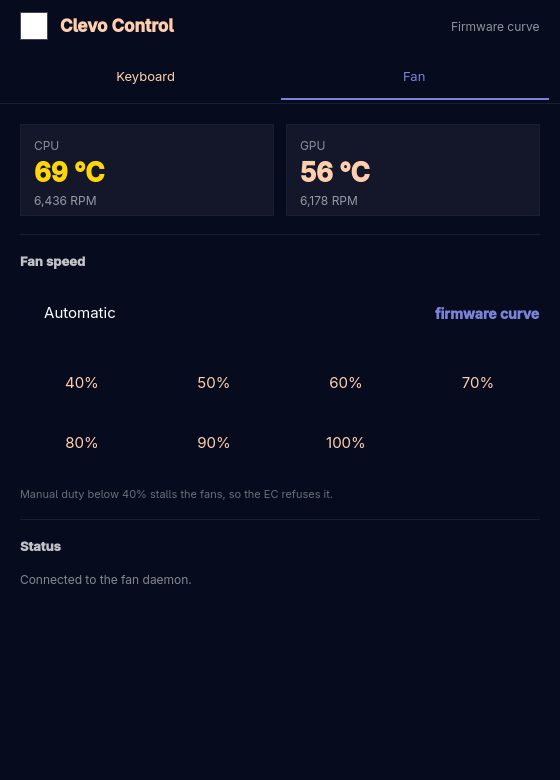
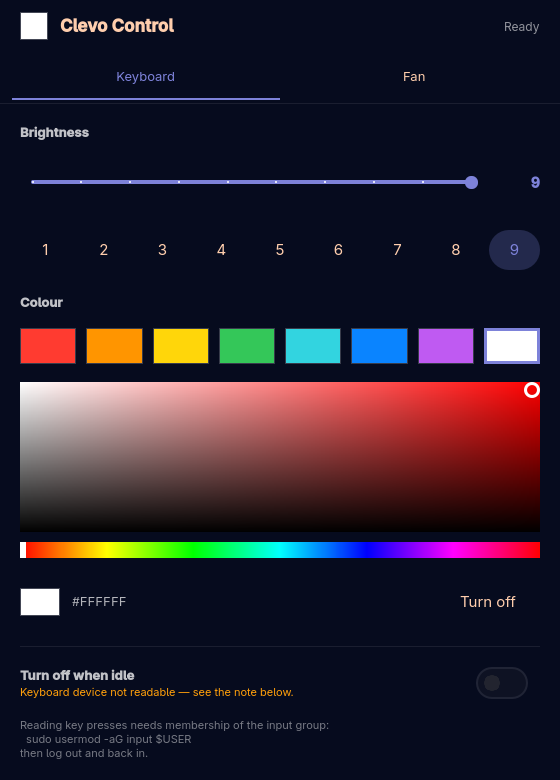
Turn the backlight off after the machine goes idle

diff --git a/src/Main.qml b/src/Main.qml
@@ -242,6 +242,89 @@ ApplicationWindow {
                     }
                 }
 
+                // ---- Idle auto-off ----
+                Rectangle {
+                    Layout.fillWidth: true
+                    height: 1
+                    color: Qt.rgba(1, 1, 1, 0.08)
+                }
+
+                RowLayout {
+                    Layout.fillWidth: true
+                    spacing: 12
+
+                    ColumnLayout {
+                        spacing: 2
+                        Layout.fillWidth: true
+                        Label {
+                            text: qsTr("Turn off when idle")
+                            font.pixelSize: 13
+                            font.bold: true
+                            color: Qt.rgba(1, 1, 1, 0.75)
+                        }
+                        Label {
+                            text: idle.deviceAvailable
+                                  ? qsTr("The light comes back the moment you type.")
+                                  : qsTr("Keyboard device not readable — see the note below.")
+                            font.pixelSize: 11
+                            color: idle.deviceAvailable ? Qt.rgba(1, 1, 1, 0.4) : "#FF9F0A"
+                            wrapMode: Text.WordWrap
+                            Layout.fillWidth: true
+                        }
+                    }
+
+                    Switch {
+                        checked: idle.enabled
+                        enabled: idle.deviceAvailable
+                        onToggled: idle.enabled = checked
+                    }
+                }
+
+                RowLayout {
+                    Layout.fillWidth: true
+                    spacing: 12
+                    visible: idle.enabled
+                    Label {
+                        text: qsTr("After")
+                        font.pixelSize: 12
+                        color: Qt.rgba(1, 1, 1, 0.6)
+                    }
+                    Slider {
+                        id: idleSlider
+                        Layout.fillWidth: true
+                        from: 10
+                        to: 300
+                        stepSize: 10
+                        snapMode: Slider.SnapAlways
+                        value: idle.timeoutSeconds
+                        onMoved: idle.timeoutSeconds = Math.round(value)
+                    }
+                    Label {
+                        text: qsTr("%n s", "", idle.timeoutSeconds)
+                        font.pixelSize: 12
+                        color: theme.accent
+                        Layout.preferredWidth: 52
+                        horizontalAlignment: Text.AlignRight
+                    }
+                }
+
+                Label {
+                    Layout.fillWidth: true
+                    visible: idle.enabled && idle.dimmed
+                    text: qsTr("Backlight is off — type to bring it back.")
+                    font.pixelSize: 11
+                    color: Qt.rgba(1, 1, 1, 0.45)
+                }
+
+                Label {
+                    Layout.fillWidth: true
+                    visible: !idle.deviceAvailable
+                    text: qsTr("Reading key presses needs membership of the input group:\n  sudo usermod -aG input $USER\nthen log out and back in.")
+                    font.pixelSize: 11
+                    color: Qt.rgba(1, 1, 1, 0.45)
+                    wrapMode: Text.WordWrap
+                }
+
                 RowLayout {
                     Layout.fillWidth: true
                     Item { Layout.fillWidth: true }

diff --git a/src/idlewatcher.cpp b/src/idlewatcher.cpp
@@ -1,0 +1,130 @@
+#include "idlewatcher.h"
+
+#include <QDir>
+#include <QFile>
+#include <QSocketNotifier>
+#include <QDebug>
+
+#include <fcntl.h>
+#include <linux/input.h>
+#include <unistd.h>
+
+IdleWatcher::IdleWatcher(QObject *parent) : QObject(parent) {
+    // Poll once a second: cheap, and the idle deadline only needs second
+    // resolution.
+    m_tick.setInterval(1000);
+    connect(&m_tick, &QTimer::timeout, this, &IdleWatcher::checkIdle);
+    openDevice();
+}
+
+void IdleWatcher::openDevice() {
+    // Find the built-in keyboard. Matching on the name is more reliable than
+    // guessing event numbers, which change between boots.
+    const auto nodes = QDir(QStringLiteral("/dev/input"))
+                           .entryList({QStringLiteral("event*")}, QDir::System);
+    for (const QString &node : nodes) {
+        const QString path = QStringLiteral("/dev/input/") + node;
+        QFile nameFile(QStringLiteral("/sys/class/input/") + node
+                       + QStringLiteral("/device/name"));
+        if (!nameFile.open(QIODevice::ReadOnly))
+            continue;
+        const QString name = QString::fromLocal8Bit(nameFile.readAll()).trimmed();
+        if (!name.contains(QLatin1String("AT Translated"), Qt::CaseInsensitive))
+            continue;
+
+        int fd = ::open(path.toLocal8Bit().constData(), O_RDONLY | O_NONBLOCK);
+        if (fd < 0) {
+            // Present but unreadable: the user is not in the `input` group yet.
+            m_devicePath = path;
+            emit devicePathChanged();
+            return;
+        }
+        m_devicePath = path;
+        m_notifier = new QSocketNotifier(fd, QSocketNotifier::Read, this);
+        connect(m_notifier, &QSocketNotifier::activated, this, &IdleWatcher::onReadable);
+        emit devicePathChanged();
+        return;
+    }
+    emit devicePathChanged();
+}
+
+void IdleWatcher::closeDevice() {
+    if (m_notifier) {
+        const int fd = m_notifier->socket();
+        m_notifier->deleteLater();
+        m_notifier = nullptr;
+        if (fd >= 0)
+            ::close(fd);
+    }
+}
+
+void IdleWatcher::onReadable() {
+    // Drain the pending events. Only key presses count as activity; key
+    // releases, repeats and pointer-less EV_SYN noise should not keep the
+    // light on forever.
+    struct input_event ev;
+    bool activity = false;
+    while (true) {
+        const ssize_t n = ::read(m_notifier->socket(), &ev, sizeof(ev));
+        if (n != (ssize_t) sizeof(ev))
+            break;
+        if (ev.type == EV_KEY && ev.value == 1)
+            activity = true;
+    }
+    if (!activity)
+        return;
+
+    m_idle.restart();
+    if (m_dimmed) {
+        m_dimmed = false;
+        emit dimmedChanged();
+        emit restoreRequested();
+    }
+}
+
+void IdleWatcher::checkIdle() {
+    if (!m_enabled || !m_notifier || m_dimmed)
+        return;
+    if (!m_idle.isValid())
+        m_idle.start();
+    if (m_idle.elapsed() < (qint64) m_timeoutSeconds * 1000)
+        return;
+
+    m_dimmed = true;
+    emit dimmedChanged();
+    emit dimRequested();
+}
+
+void IdleWatcher::setEnabled(bool on) {
+    if (m_enabled == on)
+        return;
+    m_enabled = on;
+    if (on) {
+        m_idle.start();
+        m_tick.start();
+    } else {
+        m_tick.stop();
+        if (m_dimmed) {
+            m_dimmed = false;
+            emit dimmedChanged();
+            emit restoreRequested();
+        }
+    }
+    emit enabledChanged();
+}
+
+void IdleWatcher::setTimeoutSeconds(int s) {
+    if (s < 5)
+        s = 5;
+    if (s > 3600)
+        s = 3600;
+    if (m_timeoutSeconds == s)
+        return;
+    m_timeoutSeconds = s;
+    emit timeoutSecondsChanged();
+}
+
+void IdleWatcher::noteUserBrightness(int level) {
+    if (level > 0)
+        m_userBrightness = level;
+}

diff --git a/src/idlewatcher.h b/src/idlewatcher.h
@@ -1,0 +1,74 @@
+#ifndef IDLEWATCHER_H
+#define IDLEWATCHER_H
+
+#include <QElapsedTimer>
+#include <QObject>
+#include <QString>
+#include <QTimer>
+
+class QSocketNotifier;
+
+// Turns the keyboard backlight off after the machine has been idle for a
+// while, and back on as soon as the user types again.
+//
+// Idle is detected by reading the raw key events from the keyboard's
+// /dev/input/event* node. logind's IdleHint is not usable here: Hyprland never
+// reports idle to it, so IdleHint stays false and IdleSinceHint stays 0.
+// Reading the event node needs membership of the `input` group, which the
+// udev rule in pkgbuild/90-kbdlight-input.rules grants.
+//
+// The watcher only ever restores the brightness that was in use before it
+// turned the light off, so it never fights the user's own setting.
+class IdleWatcher : public QObject {
+    Q_OBJECT
+    Q_PROPERTY(bool enabled READ enabled WRITE setEnabled NOTIFY enabledChanged)
+    Q_PROPERTY(int timeoutSeconds READ timeoutSeconds WRITE setTimeoutSeconds NOTIFY timeoutSecondsChanged)
+    Q_PROPERTY(bool dimmed READ dimmed NOTIFY dimmedChanged)
+    Q_PROPERTY(QString devicePath READ devicePath NOTIFY devicePathChanged)
+    Q_PROPERTY(bool deviceAvailable READ deviceAvailable NOTIFY devicePathChanged)
+
+public:
+    explicit IdleWatcher(QObject *parent = nullptr);
+
+    bool enabled() const { return m_enabled; }
+    void setEnabled(bool on);
+
+    int timeoutSeconds() const { return m_timeoutSeconds; }
+    void setTimeoutSeconds(int s);
+
+    bool dimmed() const { return m_dimmed; }
+    QString devicePath() const { return m_devicePath; }
+    bool deviceAvailable() const { return m_notifier != nullptr; }
+
+    // Remember the brightness the user wants, so a restore puts it back.
+    Q_INVOKABLE void noteUserBrightness(int level);
+
+signals:
+    void enabledChanged();
+    void timeoutSecondsChanged();
+    void dimmedChanged();
+    void devicePathChanged();
+
+    // Emitted when the watcher wants the backlight turned off / restored.
+    void dimRequested();
+    void restoreRequested();
+
+private slots:
+    void onReadable();
+    void checkIdle();
+
+private:
+    void openDevice();
+    void closeDevice();
+
+    bool m_enabled = false;
+    int m_timeoutSeconds = 60;
+    bool m_dimmed = false;
+    QString m_devicePath;
+    QSocketNotifier *m_notifier = nullptr;
+    QElapsedTimer m_idle;
+    QTimer m_tick;
+    int m_userBrightness = 9;
+};
+
+#endif

diff --git a/src/main.cpp b/src/main.cpp
@@ -4,6 +4,7 @@
 
 #include "backend.h"
 #include "fanbackend.h"
+#include "idlewatcher.h"
 #include "theme.h"
 
 int main(int argc, char *argv[]) {
@@ -17,11 +18,26 @@ int main(int argc, char *argv[]) {
     Theme theme;
     Backend backend;
     FanBackend fan;
+    IdleWatcher idle;
 
     QQmlApplicationEngine engine;
     engine.rootContext()->setContextProperty(QStringLiteral("theme"), &theme);
     engine.rootContext()->setContextProperty(QStringLiteral("backend"), &backend);
     engine.rootContext()->setContextProperty(QStringLiteral("fan"), &fan);
+    engine.rootContext()->setContextProperty(QStringLiteral("idle"), &idle);
+    // The watcher asks for the light to go off when the machine goes idle and
+    // to come back when the user types. Remembering the level here means a
+    // restore always returns to what the user actually chose.
+    QObject::connect(&idle, &IdleWatcher::dimRequested, &backend, [&backend, &idle]() {
+        idle.noteUserBrightness(backend.brightness());
+        backend.turnOff();
+    });
+    QObject::connect(&idle, &IdleWatcher::restoreRequested, &backend, [&backend, &idle]() {
+        // Backend keeps the last user level; turning the light back on with it
+        // is enough because turnOff() does not change the stored value.
+        backend.forceBrightness(backend.brightness());
+    });
+
     engine.load(QUrl(QStringLiteral("qrc:/Main.qml")));
     if (engine.rootObjects().isEmpty())
         return 1;

diff --git a/src/backend.cpp b/src/backend.cpp
@@ -109,6 +109,17 @@ void Backend::apply() {
     setStatus(tr("Applied"));
 }
 
+void Backend::forceBrightness(int level) {
+    if (level < 0)
+        level = 0;
+    if (level > 9)
+        level = 9;
+    m_brightness = level;
+    emit brightnessChanged();
+    runHelper({QStringLiteral("brightness"), QString::number(level)});
+    setStatus(level == 0 ? tr("Backlight off") : tr("Brightness %1").arg(level));
+}
+
 void Backend::turnOff() {
     runHelper({QStringLiteral("off")});
     setStatus(tr("Backlight off"));

diff --git a/src/backend.h b/src/backend.h
@@ -36,6 +36,11 @@ public:
     Q_INVOKABLE void turnOff();
     Q_INVOKABLE void applyRaw(const QString &hexDword);
 
+    // Write a level to the hardware even when it matches the stored one.
+    // Needed by the idle watcher: turning the light off leaves m_brightness
+    // untouched, so restoring it would otherwise be skipped as a no-op.
+    Q_INVOKABLE void forceBrightness(int level);
+
 signals:
     void brightnessChanged();
     void colorChanged();

diff --git a/README.md b/README.md
@@ -17,6 +17,27 @@ Two tabs: **Keyboard** and **Fan** (`Ctrl+1` / `Ctrl+2`).
 | Colour (RGB) | **works** — HSV picker, payload order is BRG, see below |
 | CPU / GPU temperature and both fan RPMs | **live**, via the daemon |
 | Fan speed: automatic or fixed 40-100% | **works** |
+| Backlight auto-off when idle | **works** — needs the `input` group |
+
+### Turning the backlight off when idle
+
+Switch **Turn off when idle** on and pick a timeout; the light goes out after
+that many seconds without a key press and comes back the instant you type
+again. It restores the level you had chosen, never a guessed one.
+
+Idle is detected by reading the keyboard's `/dev/input/event*` node directly.
+logind's `IdleHint` is not usable here: Hyprland never reports idle to it, so
+`IdleHint` stays false and `IdleSinceHint` stays 0.
+
+Reading the event node needs membership of the `input` group, which the udev
+rule `pkgbuild/90-kbdlight-input.rules` grants on install:
+
+```bash
+sudo usermod -aG input $USER   # then log out and back in
+```
+
+Until that is done the app says the device is not readable instead of
+pretending the feature works.
 
 ### How the two halves stay out of each other's way
 
